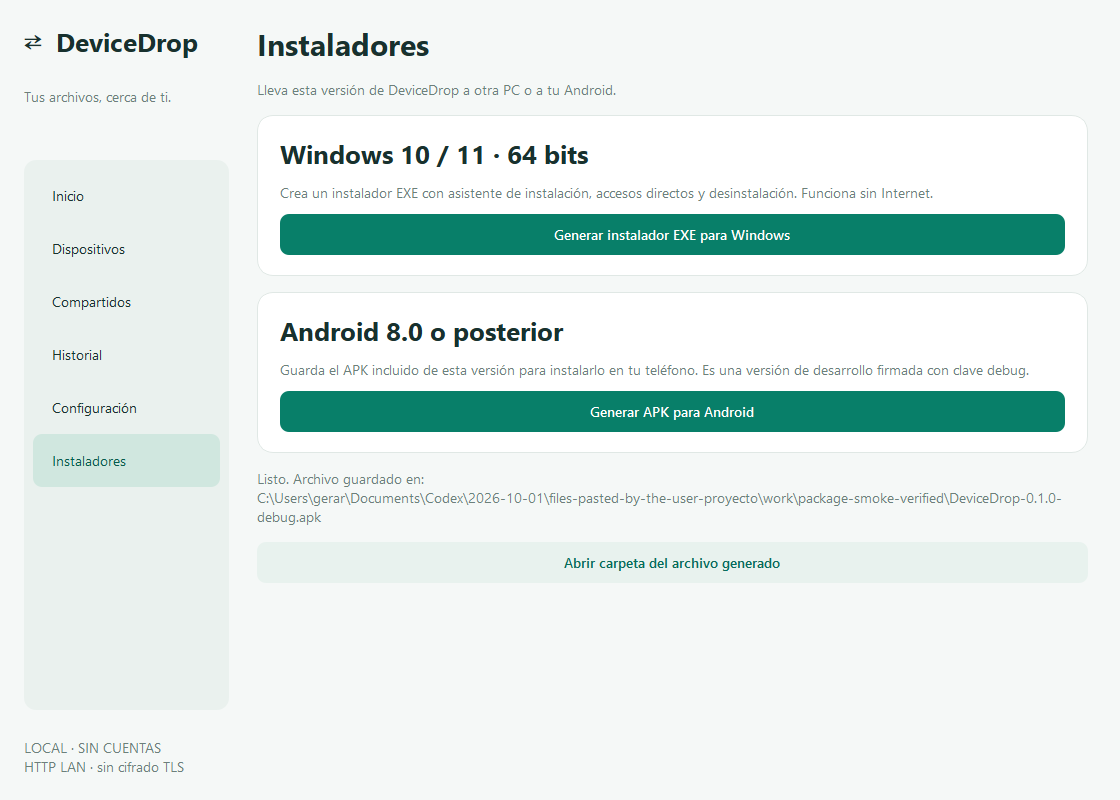
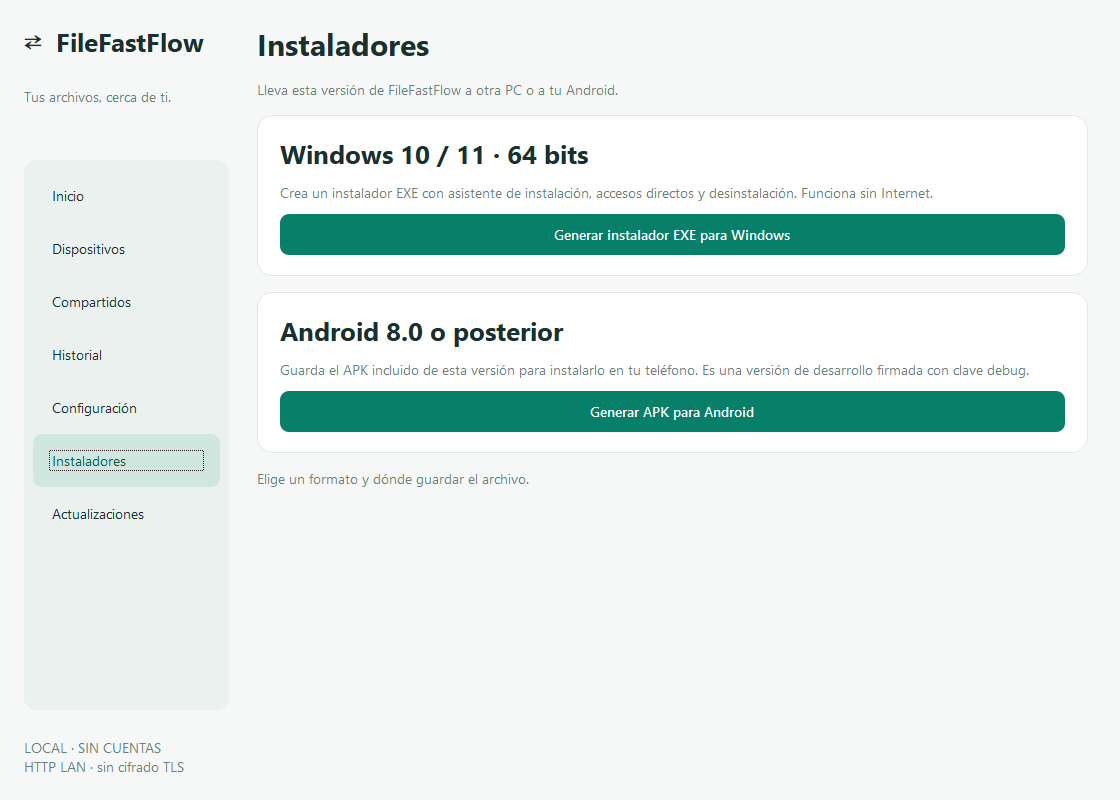
Document verified FileFastFlow release and update flow [skip ci]

diff --git a/docs/verification.md b/docs/verification.md
@@ -7,11 +7,13 @@ la Definition of Done completa como cerrada.
 ## FileFastFlow y actualizaciones desde GitHub · 4 de octubre
 
 - Suite completa Windows: **59 pruebas pasadas**. Después de los ajustes finales, 18 pruebas de interfaz y paquetes pasadas y 14 pruebas de actualizaciones y migración pasadas.
-- Android: `assembleDebug` y 9 pruebas unitarias pasadas. Se conserva la aceptación pendiente en teléfono físico.
+- Android: `assembleDebug` y 8 pruebas unitarias pasadas; 1 prueba de interoperabilidad omitida porque no se inició su fixture externo. Se conserva la aceptación pendiente en teléfono físico.
 - Ejecutable FileFastFlow reconstruido. Interfaz nativa de Windows y servidor LAN comprobados con `--smoke-test`.
 - `--package-smoke-test` ejecutó ambos botones: instalador EXE de 112,031,758 bytes y APK de 21,155,750 bytes; ambos éxitos y salida 0.
 - Búsqueda de Releases, comparación numérica, descarga HTTPS con redirección, integridad SHA-256, cancelación, conservación del destino, aviso por versión y reutilización de datos DeviceDrop comprobados.
-- La primera ejecución remota del workflow se comprobará después de subir `main`.
+- GitHub Actions completó la compilación y publicación de **0.3.2**: **60 pruebas Windows pasadas**, APK Android, instalador EXE, ZIP portátil y verificación del ejecutable empaquetado. [Ejecución verificada](https://github.com/GerardoRodVal/File-Fast-Flow/actions/runs/37242674611).
+- El actualizador consultó la Release real, detectó 0.3.2 desde 0.3.0, descargó el instalador de 91,464,978 bytes y verificó su SHA-256 contra GitHub.
+- [Versión publicada](https://github.com/GerardoRodVal/File-Fast-Flow/releases/tag/v0.3.2). La primera ejecución falló por un paquete Android retirado; el workflow corregido utiliza paquetes de SDK explícitos.
 
 ## Verificaciones anteriores
 

diff --git a/docs/updates.md b/docs/updates.md
@@ -29,6 +29,7 @@ El workflow `.github/workflows/release.yml` prueba y compila Android y Windows,
 genera el instalador EXE, el APK de desarrollo y el ZIP portátil. Publica una
 GitHub Release solamente después de pasar todas las pruebas y cargar los paquetes.
 Cada ejecución recibe una versión creciente, inicialmente `0.3.1`, `0.3.2`, etc.
+Las compilaciones fallidas pueden dejar saltos en esa secuencia. La primera versión publicada es **0.3.2**.
 No es necesario editar manualmente la versión para cada cambio. El script suma el
 número de ejecución al componente patch de la versión base de `pyproject.toml`.
 También puedes ejecutar el workflow manualmente desde Actions.
